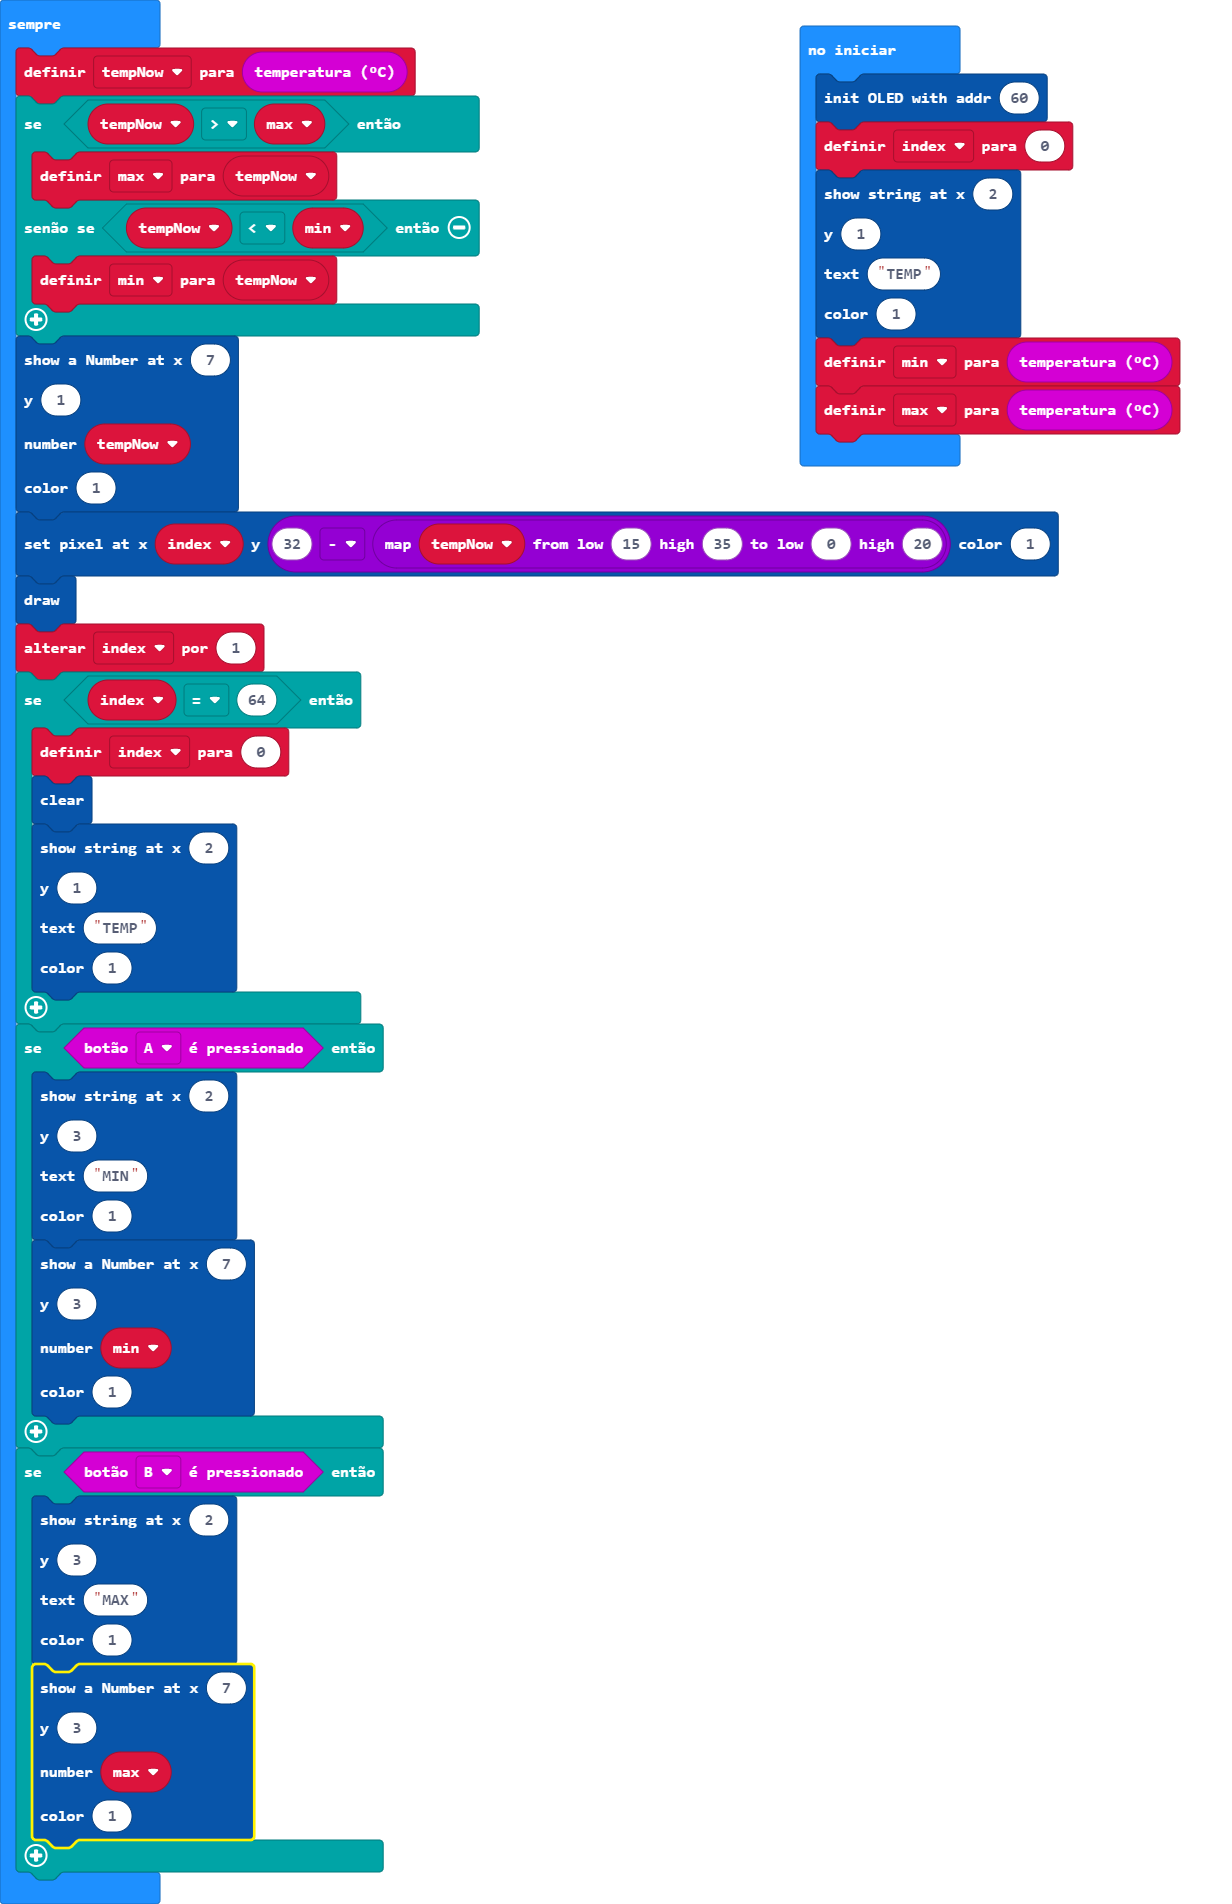
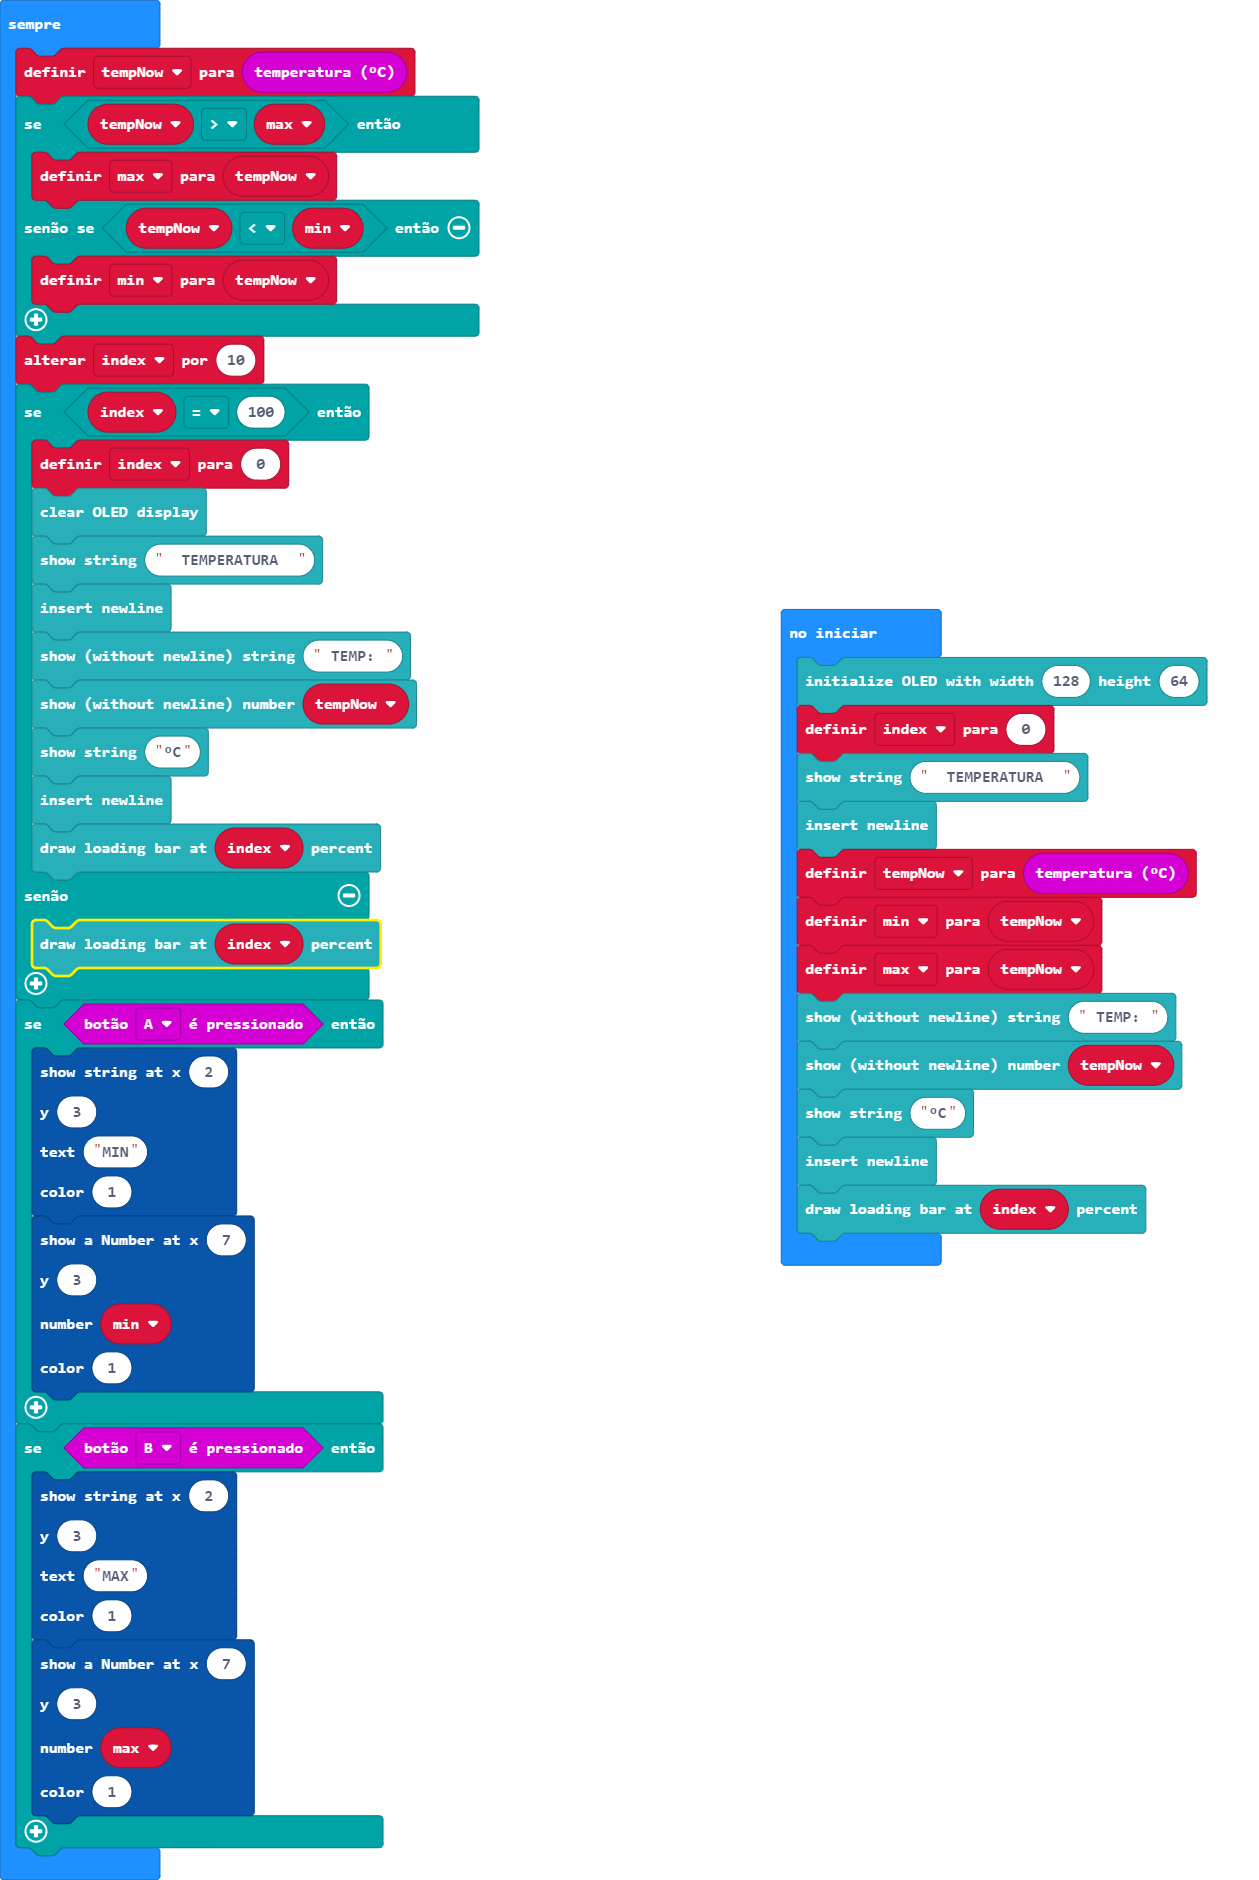
Primeira alteração de biblioteca (incompleto)

Changed region(s): [[0.0, 0.0, 0.9562, 1.0], [0.2776, 0.9564, 0.3084, 0.9872]]

diff --git a/main.ts b/main.ts
@@ -1,14 +1,15 @@
-let tempNow = 0
-OLED12864_I2C.init(60)
+OLED.init(128, 64)
 let index = 0
-OLED12864_I2C.showString(
-2,
-1,
-"TEMP",
-1
-)
-let min = input.temperature()
-let max = input.temperature()
+OLED.writeStringNewLine("  TEMPERATURA  ")
+OLED.newLine()
+let tempNow = input.temperature()
+let min = tempNow
+let max = tempNow
+OLED.writeString(" TEMP: ")
+OLED.writeNum(tempNow)
+OLED.writeStringNewLine("°C")
+OLED.newLine()
+OLED.drawLoading(index)
 basic.forever(function () {
     tempNow = input.temperature()
     if (tempNow > max) {
@@ -16,24 +17,19 @@ basic.forever(function () {
     } else if (tempNow < min) {
         min = tempNow
     }
-    OLED12864_I2C.showNumber(
-    7,
-    1,
-    tempNow,
-    1
-    )
-    OLED12864_I2C.pixel(index, 32 - Math.map(tempNow, 15, 35, 0, 20), 1)
-    OLED12864_I2C.draw()
-    index += 1
-    if (index == 64) {
+    index += 10
+    if (index == 100) {
         index = 0
-        OLED12864_I2C.clear()
-        OLED12864_I2C.showString(
-        2,
-        1,
-        "TEMP",
-        1
-        )
+        OLED.clear()
+        OLED.writeStringNewLine("  TEMPERATURA  ")
+        OLED.newLine()
+        OLED.writeString(" TEMP: ")
+        OLED.writeNum(tempNow)
+        OLED.writeStringNewLine("°C")
+        OLED.newLine()
+        OLED.drawLoading(index)
+    } else {
+        OLED.drawLoading(index)
     }
     if (input.buttonIsPressed(Button.A)) {
         OLED12864_I2C.showString(
